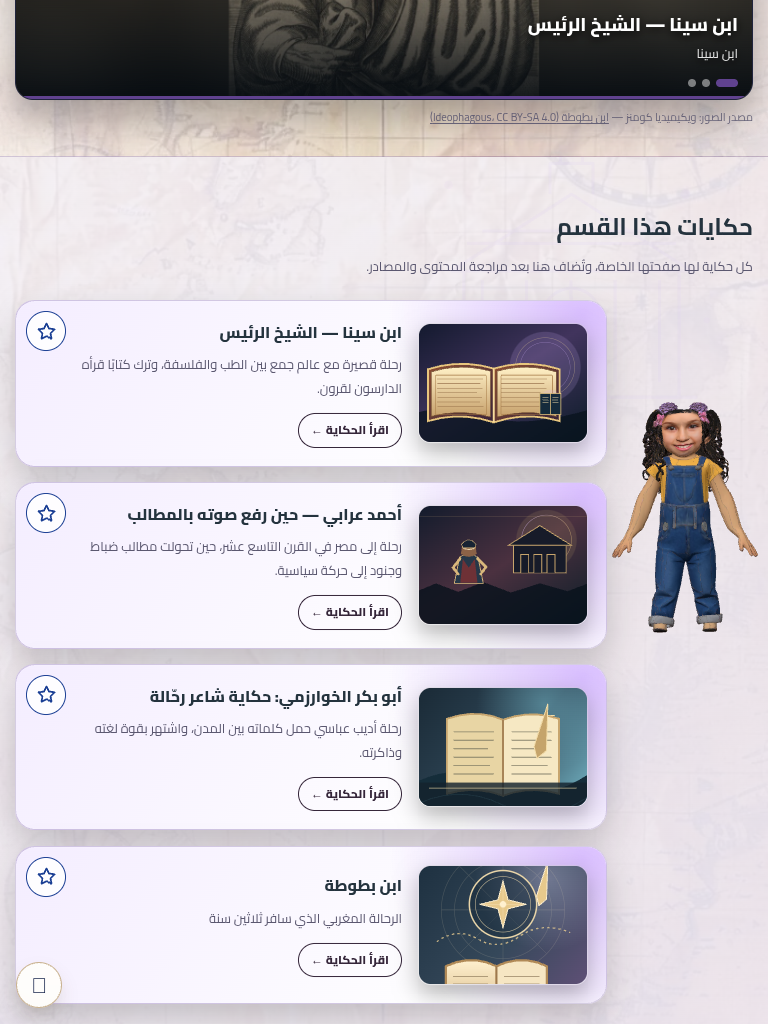
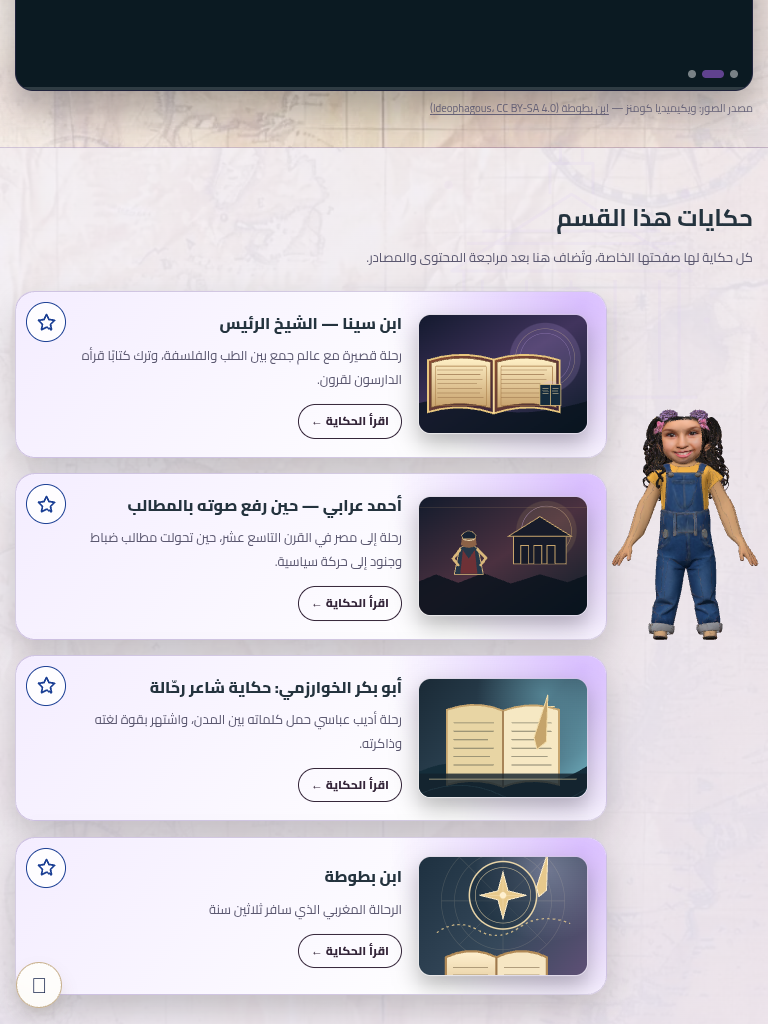
Stage: elapsed-time hidden recovery, resize snap-in; desktop evidence rerun

diff --git a/khaledoon/assets/karma-stage.js b/khaledoon/assets/karma-stage.js
@@ -55,34 +55,34 @@ export async function startKarmaStage(opts = {}) {
       if (room.right >= need && room.right >= room.left) return 'right'; if (room.left >= need) return 'left'; return null; };
     // never cover content: the model is hidden for any frame where its box would overlap a card, photo or text block
     const boxOf = () => ({ l: c.pos.x - c.halfW, r: c.pos.x + c.halfW, t: c.pos.y - charH, b: c.pos.y });
-    let hiddenFrames = 0, shownFrames = 0, hiddenRun = 0;
+    let hiddenFrames = 0, shownFrames = 0, hiddenSince = 0;
     const guard = () => { const m = boxOf(); let hit = false;
       const tol = c.stateName === 'lean' ? 36 : 12; // lean-on-card contact: a few px of arm/shoulder may touch the card edge without hiding her
       for (const r of [...getCardRects().map((q) => ({ ...q, left: q.left + tol, width: q.width - 2 * tol })), ...getKeepOutRects()]) { if (m.l < r.left + r.width && m.r > r.left && m.t < r.top + r.height && m.b > r.top) { hit = true; break; } }
-      c.object3D.visible = o.coverGuard ? !hit : true; hiddenRun = hit ? hiddenRun + 1 : 0; if (hiddenRun > 90 && !busy && !stopped) { hiddenRun = 0; setTimeout(() => visit(false), 0); } if (hit) hiddenFrames++; else shownFrames++; state.hiddenFrames = hiddenFrames; state.shownFrames = shownFrames; };
+      c.object3D.visible = o.coverGuard ? !hit : true; const tNow = performance.now(); if (!hit) hiddenSince = 0; else if (!hiddenSince) hiddenSince = tNow; else if (!busy && tNow - hiddenSince > 1200 && !stopped && !document.hidden) { hiddenSince = 0; setTimeout(() => visit(false, true), 0); } if (hit) hiddenFrames++; else shownFrames++; state.hiddenFrames = hiddenFrames; state.shownFrames = shownFrames; };
     const timers = []; const sleep = (sec) => new Promise((res) => timers.push({ t: sec, res }));
     const tick = (d) => { for (let i = timers.length - 1; i >= 0; i--) { timers[i].t -= d; if (timers[i].t <= 0) timers.splice(i, 1)[0].res(); } c.update(d); if (c.pos.x < vw && c.pos.y > vh - 4) c.pos.y = vh - 4; };
-    let stopped = false, busy = false, current = null; const state = { visits: 0, lastError: null };
+    let stopped = false, busy = false, current = null, epoch = 0; const state = { visits: 0, lastError: null };
     const say = (s) => { if (o.onState) o.onState(s, state); };
-    async function visit(first) {
-      if (busy || stopped) return; busy = true;
+    async function visit(first, force) {
+      if (stopped) return; if (busy && !force) return; if (force) { epoch++; Promise.resolve(c.stand()).catch(() => {}); } const my = ++epoch; busy = true; const dead = () => stopped || my !== epoch;
       try {
-        reserve(); let r = pick(current); for (let w = 0; !r && w < 20 && !stopped; w++) { await sleep(0.75); reserve(); r = pick(current); } if (!r) { busy = false; return; } current = r.id; const side = sideFor(r);
+        reserve(); let r = pick(current); for (let w = 0; !r && w < 20 && !stopped; w++) { await sleep(0.75); reserve(); r = pick(current); } if (dead()) return; if (!r) { busy = false; return; } current = r.id; const side = sideFor(r);
         say('walking');
         if (first) await c.runTo(r.id, { side }); else await c.walkTo(r.id, { side });
-        if (stopped) return;
+        if (dead()) return;
         say('interacting');
-        await c.lookAt(r.id, 1.2); await c.pointAt(r.id, 1.8); await c.wave(1.6);
-        await c.leanOn(r.id, { side }); await sleep(2.5);
-        await c.stand(); say('idle'); state.visits++;
-      } catch (e) { state.lastError = String(e); } finally { busy = false; }
+        await c.lookAt(r.id, 1.2); if (dead()) return; await c.pointAt(r.id, 1.8); if (dead()) return; await c.wave(1.6); if (dead()) return;
+        await c.leanOn(r.id, { side }); if (dead()) return; await sleep(2.5); if (dead()) return;
+        await c.stand(); if (dead()) return; say('idle'); state.visits++;
+      } catch (e) { state.lastError = String(e); } finally { if (my === epoch) busy = false; }
     }
     reserve(); if (o.auto) setTimeout(() => { reserve(); visit(true); }, 0); // collection pages render their story cards after load; visit() waits up to 15 s for them
     let scrollT = null; if (o.auto) addEventListener('scroll', () => { clearTimeout(scrollT); scrollT = setTimeout(() => { if (!busy) setTimeout(() => visit(false), 600); }, 900); }, { passive: true });
     let rsT = null; addEventListener('resize', () => { clearTimeout(rsT); rsT = setTimeout(() => {
       vw = innerWidth; vh = innerHeight; renderer.setSize(vw, vh, false);
       cam.left = -vw / 2; cam.right = vw / 2; cam.top = vh / 2; cam.bottom = -vh / 2; cam.updateProjectionMatrix();
-      c.setViewport(vw, vh); if (o.auto && !busy) setTimeout(() => visit(false), 400); c.setCharacterHeight(o.charHeight || (matchMedia('(max-width: 700px)').matches ? mobH() : Math.min(230, vh * 0.28))); reserve(); }, 120); });
+      c.setViewport(vw, vh); if (o.auto && !busy) setTimeout(() => visit(false), 400); c.setCharacterHeight(o.charHeight || (matchMedia('(max-width: 700px)').matches ? mobH() : Math.min(230, vh * 0.28))); reserve(); c.pos.x = Math.min(c.pos.x, vw - c.halfW - 4); c.pos.y = Math.min(Math.max(c.pos.y, charH + 4), vh - 4); }, 120); });
     let last = performance.now(), acc = 0; const step = mobile ? 1 / 30 : 0;
     function frame(now) {
       if (stopped) return; requestAnimationFrame(frame);

diff --git a/assets/3d/karma/rig_integration_2026-11-25/evidence/collection_reliability_summary.md b/assets/3d/karma/rig_integration_2026-11-25/evidence/collection_reliability_summary.md
@@ -4,3 +4,7 @@ Timeline: V = visible and fully on screen that second, h = hidden. Max overlap w
 Phone 390x844 (seconds visible/total): entry 10/10, cards 12/12, slideshow 0/10 (intentional no-cover absence), bottom 10/10, resize 360x740 12/12, 768x1024 12/12, 1440x900 7/12, back 390x844 12/12.
 Desktop 1440x900: entry 10/10, cards 12/12, slideshow 10/10, bottom 10/10, 360x740 12/12, 768x1024 10/12 (hhVV..), 1440x900 4/12 (hhhhhhhhVVVV), 390x844 12/12.
 Transient after resize: hidden up to about 8 s, then she reappears. Cause not isolated; recovery waits 90 frames and software GL runs at low fps, so real-device time is unmeasured.
+
+## Update 17:34 (desktop 1440x900 rerun after elapsed-time recovery, resize snap-in)
+Desktop timelines: entry/cards/slideshow/bottom/360x740/768x1024/back-to-390 all VVVV (full). Resize to 1440x900 after 768x1024: hhhhhhhhhVVV (about 9 s hidden, still a defect, cause not isolated).
+Tried and rejected: forcing a new visit on every resize and forcing recovery while walking made 768x1024 hidden for the whole 12 s (preempt livelock), so those were reverted. Kept: hidden recovery by elapsed time (1.2 s when idle), resize snap of her position into the viewport.
